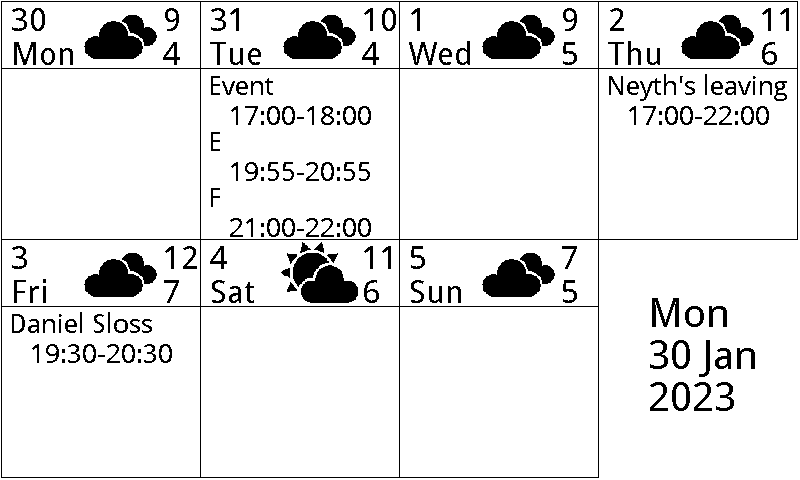
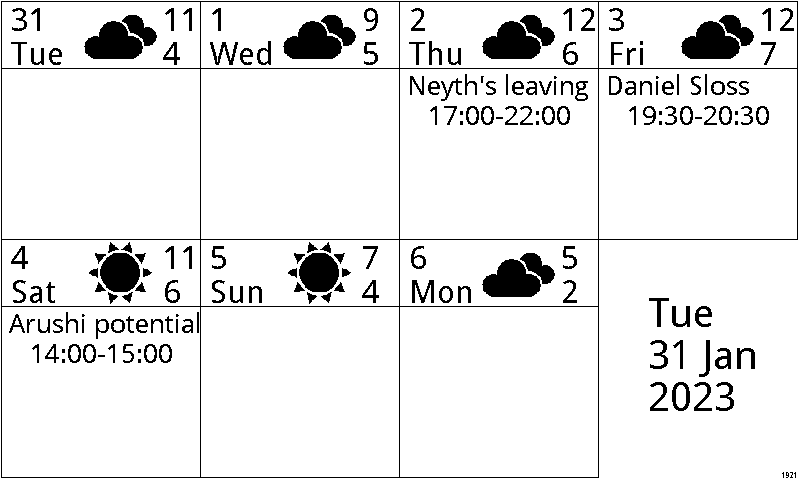
added last update time

diff --git a/piCal/get_image.py b/piCal/get_image.py
@@ -48,6 +48,9 @@ class CalDraw():
         event_size = 27
         self.event_font = ImageFont.truetype(os.path.join(picdir, 'Font.ttc'), event_size)
 
+        tiny_size = 8
+        self.tiny_font = ImageFont.truetype(os.path.join(picdir, 'Font.ttc'), tiny_size)
+
         self.image_black = Image.new('1', (self.width, self.height), 255)  # 255: clear the frame
         self.image_red = Image.new('1', (self.width, self.height), 255)  # 255: clear the frame
     
@@ -139,9 +142,15 @@ class CalDraw():
                         '{}\n{} {}\n{}'.format(weekdays[now.weekday()], now.day, months[now.month - 1], now.year),
                         font=self.big_font)
 
+        draw_black.text((782, 470),
+                        '{}{}'.format(now.hour, now.minute),
+                        font=self.tiny_font)
+
         event_counts = [0]*7
         event_counts = self.add_events(holidays, event_counts, holidays=True)
         event_counts = self.add_events(events, event_counts)
+
+
 
 
     def draw_weather(self, weather):
